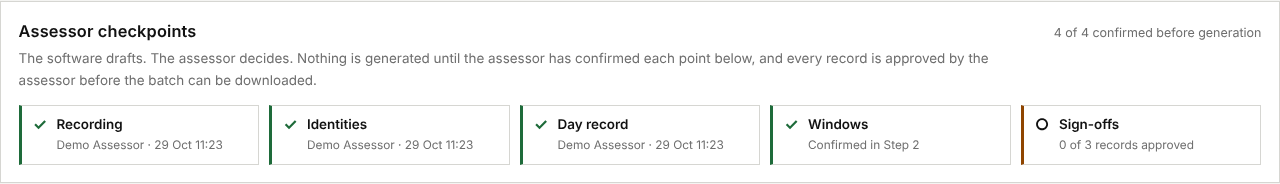
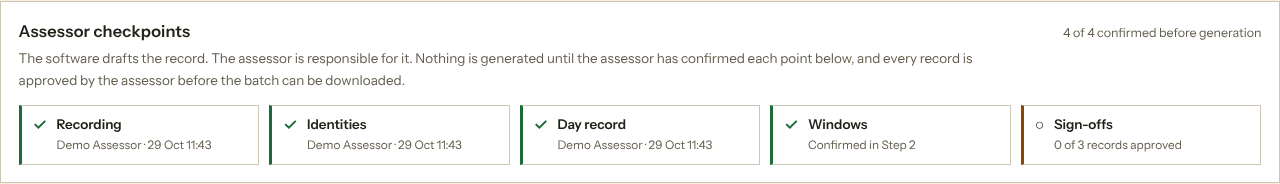
Retake screenshots in the Guild UK theme and polish the README
All screenshots are retaken with the Guild UK colours and one typeface. The README is
rewritten in plain language: shorter sentences, no long dashes, and the governance
section simplified.

Claude-Session: https://claude.ai/code/session_01D2K8EE42vFoEZYuJgvXjhL

diff --git a/README.md b/README.md
@@ -1,64 +1,64 @@
 # Assessment Record Generator
 
-A Python web app that turns two audio recordings of a spoken English assessment into a drafted assessment record for each learner, ready for the assessor to review, edit and sign off.
+A Python web app that turns two audio recordings of a spoken English assessment into a drafted record for each learner. The assessor reviews, edits and approves every record.
 
-**This repository describes the project. The source code is private**, because it was built around real assessment work. I am happy to walk through the code in an interview.
+The source code is private because it was built around real assessment work. I am happy to walk through it in an interview.
 
 ## The problem
 
-A Functional Skills English Level 2 assessment (Speaking, Listening and Communicating) has two parts: each learner gives a presentation, then the group holds a discussion. Afterwards the assessor writes a record for every learner, with a comment against 18 criteria and a feedback paragraph, each backed by what the learner actually said.
+A Functional Skills English Level 2 assessment (Speaking, Listening and Communicating) has two parts. Each learner gives a presentation, then the group holds a discussion. Afterwards the assessor writes a record for every learner: a comment against each criterion, backed by what the learner said, and a feedback paragraph.
 
-Writing these up from the recordings took me about 4 hours per session. The tool cut that to about 30 minutes, and the assessor still makes every judgement.
+Writing these up from the recordings took me about 4 hours per session. The tool cut that to about 30 minutes. The assessor still makes every judgement.
 
 ## What it does
 
 1. The assessor uploads their notes and the two recordings.
 2. The app transcribes the audio and works out who is speaking.
-3. The assessor checks the transcripts and confirms which voice is which learner.
-4. The assessor declares that they listened to the recordings and records what happened on the day. Nothing is drafted until they have.
+3. The assessor checks the transcripts and confirms which voice belongs to which learner.
+4. The assessor confirms they listened to the recordings and writes down what happened on the day. Nothing is drafted until they have.
 5. The app drafts each learner's record, quoting what they said.
 6. The assessor edits and approves each draft, then downloads one Word document per learner.
 
-## Governance: the assessor stays in charge
+## The assessor stays in charge
 
-The tool drafts. **The assessor is accountable for every record**, so their input is built into the workflow, recorded with their name and the time, and enforced in the code. It is not left to good intentions.
+The app drafts. The assessor is responsible for every record. Their input is part of the workflow, it is recorded with their name and the time, and the code enforces it.
 
-### Before a draft can be generated
+### Before any draft is generated
 
-Generation will not start until the assessor has made four declarations. This is checked in the code that generates, not only by greying out a button.
+Four declarations must be made first. The check sits in the code that generates, as well as on the button.
 
 | Checkpoint | What the assessor does | What stops generation |
 |---|---|---|
-| **Recording checked** | Listens to both recordings on the day and confirms the audio is clear enough to assess, or describes what was wrong | No declaration on record |
-| **Learners identified** | Reviews which voice is linked to which learner and confirms every name is right | Any learner with no voice linked. If a match changes afterwards, the confirmation is withdrawn automatically |
-| **Day record written** | Writes their own account of what happened on the day: the room, interruptions, adjustments. If nothing happened, says so explicitly | An empty or token entry |
-| **Windows confirmed** | Places each learner's presentation and question window by ear | Any window still on the software's guess |
+| Recording checked | Listens to both recordings and confirms the audio is clear enough to assess, or describes what was wrong | No declaration on record |
+| Learners identified | Checks which voice is linked to which learner and confirms each name | Any learner with no voice linked. If a match changes later, the confirmation is withdrawn |
+| Day record written | Writes their own account of the day: the room, interruptions, adjustments. If nothing happened, says so | An empty or token entry |
+| Windows confirmed | Places each learner's presentation and question window by ear | Any window still on the software's guess |
 
 The checkpoints show at the top of the Session page, with who confirmed each one and when.
 
-![Checkpoints outstanding: three are waiting for the assessor](screenshots/governance-checkpoints-locked.png)
+![Three checkpoints are waiting for the assessor](screenshots/governance-checkpoints-locked.png)
 
-**One learner is not linked to a voice, so the assessor cannot confirm who is who.** The confirm button stays disabled until every learner in the group is linked.
+If a learner has no voice linked, the assessor cannot confirm who is who.
 
-![The assessor cannot confirm identities while a learner has no voice linked](screenshots/governance-identity-blocked.png)
+![Identity confirmation blocked because one learner has no voice linked](screenshots/governance-identity-blocked.png)
 
-**Until the declarations are made, the pre-generation checks show red crosses and Generate stays locked.**
+Until the declarations are made, the pre-generation checks show red crosses and Generate stays locked.
 
-![Pre-generation checks with three red crosses and the Generate button locked](screenshots/governance-generation-locked.png)
+![Pre-generation checks with three red crosses and Generate locked](screenshots/governance-generation-locked.png)
 
-**The assessor makes each declaration in their own words, with their name and the time recorded.**
+The assessor makes each declaration in their own words.
 
-![The assessor's declarations: recording, who is who, and the day record](screenshots/governance-declarations-confirmed.png)
+![The assessor's declarations for the recording, who is who and the day](screenshots/governance-declarations-confirmed.png)
 
 ![All four checkpoints confirmed, with the assessor's name and time](screenshots/governance-checkpoints-met.png)
 
-**Only then does Generate unlock.**
+Only then does Generate unlock.
 
-![Every pre-generation check passed and Generate enabled](screenshots/governance-generation-cleared.png)
+![Every pre-generation check passed and Generate available](screenshots/governance-generation-cleared.png)
 
 ### After a draft is generated
 
-The assessor approves each learner's record. **The batch download is held until every record has been approved.**
+The assessor approves each record. The batch download stays held until every record is approved.
 
 ![Batch download held while two of three records are approved](screenshots/governance-batch-held.png)
 
@@ -66,7 +66,7 @@ The assessor approves each learner's record. **The batch download is held until 
 
 ### The audit trail
 
-Every declaration and withdrawal is logged. Each record's "How this document was produced" panel lists the assessor's declarations, the Database page shows the log across sessions, and every session export carries the same record, so an external quality check can see who confirmed what and when without needing the app.
+Every declaration and withdrawal is logged. Each record's provenance panel lists the declarations, the Database page shows the log across sessions, and every session export carries the same record. An external quality check can see who confirmed what, and when, without needing the app.
 
 ![A record's provenance panel listing the assessor's declarations](screenshots/governance-provenance.png)
 
@@ -74,70 +74,66 @@ Every declaration and withdrawal is logged. Each record's "How this document was
 
 ### Other controls that keep a person in the loop
 
-- **Observations.** The assessor records what the recording cannot show, and any reasonable adjustment applied. These can evidence a criterion, and are never blended with a transcript quote.
-- **No evidence is not a fail.** If a criterion cannot be evidenced from the transcript, it goes to the assessor. The model is not allowed to invent text.
+- **Observations.** The assessor records what the recording cannot show, and any adjustment applied. An observation can evidence a criterion. It is never mixed into a quote.
+- **No evidence is not a fail.** If the transcript cannot evidence a criterion, it goes to the assessor. The model may not invent text.
 - **Quotes are checked.** Every quote must appear in that learner's own assessment window, and names are checked against the roster.
-- **Edits are visible.** The draft as generated is kept beside the assessor's version, and each record states how many times it was edited, or that it was released as drafted.
+- **Edits are visible.** The draft as generated is kept next to the assessor's version. Each record says how often it was edited, or that it was released as drafted.
 - **Defects need a decision.** Downloading with checks outstanding needs an explicit acknowledgement, recorded against the session.
-- **Judgements are never made by code.** The pass tick, the task-brief tick and the quality-assurance rows on the form are left for people.
+- **Judgements stay with people.** The pass tick, the task-brief tick and the quality-assurance rows on the form are never filled in by code.
 - **The instruction sent to the model is locked** with a checksum, and any local change is recorded on every record.
 - **Degraded runs are recorded.** If transcription fell back from the best path, the session says so on screen, in the database and in the export.
-- **Access is controlled.** A PIN the assessor creates, a sign-in lockout, and a server that listens on the local machine only.
+- **Access is controlled.** The assessor creates a PIN, repeated wrong attempts lock the sign-in, and the server listens on the local machine only.
 
 ### What this does not claim
 
-- A tick cannot prove that someone listened. A checkpoint is an attestation: it is a named, timed, recorded step that cannot be skipped by accident, and an untrue declaration is on the record against a person.
-- It is a single-user local application. Someone with access to the machine could edit the database directly, so device security and backups still matter.
-- Per-learner downloads stay open so one problem record never holds up the others, and each shows whether it has been approved.
+- A tick cannot prove that someone listened. A checkpoint is a named, timed, recorded step that cannot be skipped by accident. An untrue declaration is on the record against a person.
+- It is a single-user local app. Someone with access to the machine could edit the database directly, so device security and backups still matter.
+- Per-learner downloads stay open so one problem record never holds up the others. Each one shows whether it has been approved.
 
 ## Screenshots
 
-These are taken from a **demo session with invented learners** (Maya Fictional, Daniel Example and Priya Sample), invented learner numbers and invented speech. They show the app working on a finished session, and no real assessment data appears in them. The app has a black and white design with a light and a dark theme.
-
-### Signing in
-
-There is no default PIN. The first time the app opens, the assessor creates one. After that it asks for it, and repeated wrong attempts lock the sign-in for a growing period.
+These come from a demo session with invented learners, numbers and speech. No real assessment data appears. The design uses the Guild UK colours and one typeface throughout.
 
 | | |
 |---|---|
-| ![Create a PIN on first launch](screenshots/create-pin.png) | ![Sign in with a PIN](screenshots/sign-in.png) |
+| ![Create a PIN on first launch](screenshots/create-pin.png) | ![Sign in with the PIN](screenshots/sign-in.png) |
 | First launch: the assessor creates their own PIN | Every later launch: sign in with it |
-
-### Working through a session
-
-| | |
-|---|---|
 | ![Session overview in the light theme](screenshots/session-light.png) | ![Session overview in the dark theme](screenshots/session-dark.png) |
 | A finished session reopens where the assessor left off | The same screen in the dark theme |
 
-**Step 2, review and confirm.** The assessor checks the transcript and confirms the window in which each learner gave their presentation and answered questions. Every duration in the record comes from these confirmed windows.
+### Step 2: review and confirm
 
-![Step 2: review the transcript](screenshots/step2-review.png)
+The assessor checks the transcript and confirms the window in which each learner presented and answered questions. Every duration in the record comes from these windows.
 
-![Step 2: confirmed spans for each learner](screenshots/step2-spans.png)
+![Step 2: the transcript](screenshots/step2-review.png)
 
-**Step 3, generate.** Checks run before any money is spent: group size, every voice matched, a topic set and every window confirmed. The assessor can add what they saw on the day, and the app shows an estimated cost.
+![Step 2: confirmed windows for each learner](screenshots/step2-spans.png)
+
+### Step 3: generate
+
+Checks run before any money is spent: group size, every voice matched, a topic set and every window confirmed. The assessor can add what they saw on the day, and the app shows an estimated cost.
 
 ![Step 3: pre-generation checks and estimated cost](screenshots/step3-generate.png)
 
-**Step 4, review and download.** Each learner's record opens as a card. Every comment is backed by a quote and a timestamp, and the card says how the document was produced.
+### Step 4: review and download
 
-![Step 4: a learner's record with its provenance panel](screenshots/learner-card-provenance.png)
+Each learner's record opens as a card. Every comment cites a quote and a timestamp, and the card says how the document was produced.
 
-![Step 4: criterion comments with quotes and timestamps](screenshots/task1-evidence.png)
+![Step 4: a learner's record and its provenance panel](screenshots/learner-card-provenance.png)
+
+![Step 4: comments with quotes and timestamps](screenshots/task1-evidence.png)
 
 ![Step 4 in the dark theme](screenshots/step4-dark.png)
 
 ### Data and settings
 
-| | |
-|---|---|
-| ![Database page](screenshots/database.png) | |
-| Saved sessions, backups and a self-contained export for an external quality check | |
+![Database page](screenshots/database.png)
+
+Saved sessions, backups, and a self-contained export for an external quality check.
 
 ![Settings page](screenshots/settings.png)
 
-Settings: assessor and centre details, the AI model, session timings, backups, and data protection tools for retention and for erasing a single learner.
+Assessor and centre details, the AI model, session timings, backups, and the tools for retention and for erasing one learner.
 
 ## How it works
 
@@ -148,29 +144,30 @@ flowchart TD
     C --> D[Speaker separation with pyannote]
     D --> E[Match voices to learner names]
     E --> F[Verify each match and keep the evidence]
-    F --> G[Find each learner's presentation and question window]
-    G --> H[Measure strengths and areas to develop]
-    H --> I[Draft comments and feedback with the Claude API]
-    I --> J[Validate every quote and flag anything to review]
-    J --> K[Assessor edits]
-    K --> L[Word document per learner]
+    F --> G[Assessor declarations]
+    G --> H[Find each learner's presentation and question window]
+    H --> I[Measure strengths and areas to develop]
+    I --> J[Draft comments and feedback with the Claude API]
+    J --> K[Validate every quote and flag anything to review]
+    K --> L[Assessor edits and approves]
+    L --> M[Word document per learner]
 ```
 
 ## Engineering decisions
 
-**Fail early, not 40 minutes in.** A long transcription used to fail late and quietly, for example when a graphics library was missing. Readiness checks now run before any work starts and say exactly what to fix.
+**Fail early.** A long transcription used to fail late and quietly, for example when a graphics library was missing. Readiness checks now run before any work starts and say exactly what to fix.
 
 **No invented evidence.** Every criterion is in one of three states: evidenced by a real quote from that learner, searched with nothing found (which goes to the assessor and never counts as a fail), or supplied by the assessor from their own observation. A quote that cannot be found in the right transcript, inside that learner's own speaking window, is rejected.
 
-**Measure first, then ask the model.** Candidate moments, strengths and areas for development are found by ordinary code before the AI model is called. The model is given that evidence to write from, so it cannot make up what a learner said, and two learners do not get the same generic feedback.
+**Measure first, then ask the model.** Ordinary code finds the candidate moments, strengths and areas for development before the AI model is called. The model writes from that evidence, so it cannot make up what a learner said, and two learners do not get the same generic feedback.
 
-**The same voice across two recordings.** Speaker separation numbers the voices from scratch in each file, so "speaker 1" in the presentation is not "speaker 1" in the discussion. The app matches voices across both recordings by their sound, and keeps a record of why it made each match.
+**The same voice across two recordings.** Speaker separation numbers the voices from scratch in each file, so "speaker 1" in the presentation is not "speaker 1" in the discussion. The app matches voices across both recordings by their sound and keeps a record of why it made each match.
 
 **Validation that can block.** Checks after drafting return issues with a severity. Serious ones stop the download until they are fixed. Minor ones are flagged for the assessor.
 
 **The record must survive.** Everything is stored in one SQLite database with JSON backups, so a record can be produced again if an external quality check asks for it.
 
-**Security reviewed, then fixed.** I ran an AI-assisted security audit (Cloudflare's open-source security-audit skill) over the highest-risk parts of the code. It was a read-only review of the source, so I treated its findings as leads to verify rather than facts. The real ones are fixed and tested: the app has no default PIN, locks sign-in after repeated wrong attempts and listens only on the local machine; erasing a learner now removes every copy of their data and not only the database rows; and a record can no longer be matched to the wrong learner's document.
+**Security reviewed, then fixed.** I ran an AI-assisted security audit (Cloudflare's open-source security-audit skill) over the highest-risk parts of the code. It was a read-only review of the source, so I treated its findings as leads to check. The real ones are fixed and tested: no default PIN, a lockout after repeated wrong attempts, a server that listens only on the local machine, erasure that removes every copy of a learner's data, and records that can no longer be matched to the wrong learner's document.
 
 ## Testing and quality
 
@@ -183,7 +180,7 @@ flowchart TD
 
 | Part | Built with |
 |---|---|
-| Interface | Streamlit with a custom design system, light and dark |
+| Interface | Streamlit, with a light and a dark theme and one typeface |
 | Transcription | faster-whisper (Whisper large-v3), GPU with a CPU fallback |
 | Speaker separation | pyannote.audio |
 | Drafting | Anthropic Claude API, one call per learner, with prompt caching |
@@ -196,8 +193,8 @@ flowchart TD
 - The audio is transcribed on the assessor's own machine and is never uploaded.
 - The transcript text is sent to the Claude API to draft the comments.
 - Learner names, recordings, transcripts, documents and the database are excluded from version control. The repository holds source code only.
-- The app is protected by a PIN that the assessor creates on first launch. It is stored only as a salted hash, repeated wrong attempts lock the sign-in, and the app listens on the local machine only.
-- Retention and erasure tools remove a session or a single learner from the database, the backups and the generated documents.
+- The PIN is created by the assessor and stored only as a salted hash. The app listens on the local machine only.
+- Retention and erasure tools remove a session, or one learner, from the database, the backups and the generated documents.
 
 ## Size
 
@@ -210,6 +207,7 @@ flowchart TD
 - An AI model is one step in a pipeline, not the pipeline. The checks around it are what make the output trustworthy.
 - Tests matter most where a wrong answer is costly. A record with a quote the learner never said is worse than no record.
 - Good error messages save more time than clever code.
+- A control only counts if the code enforces it and the record shows it.
 
 ## Contact
 
